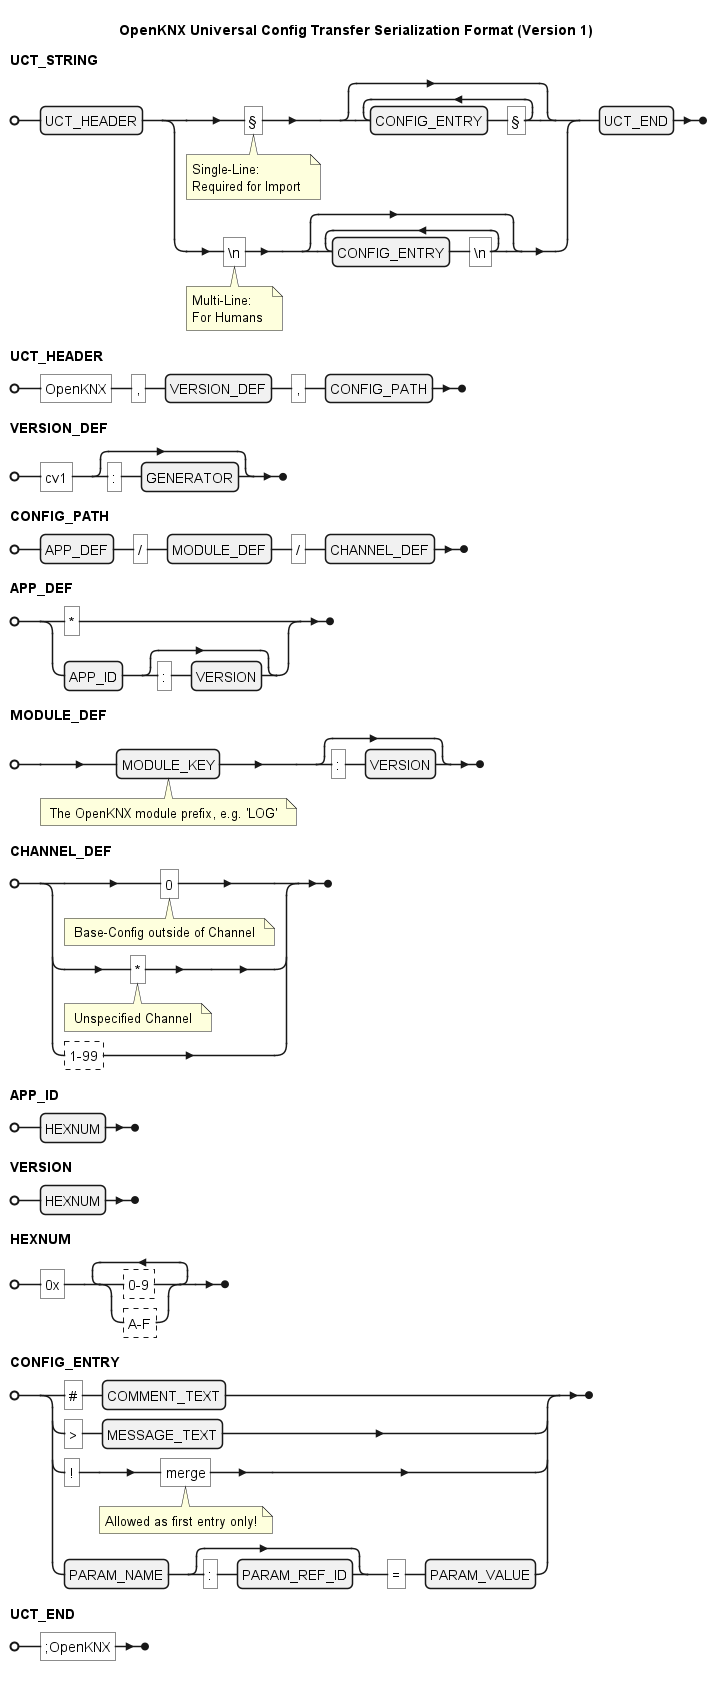
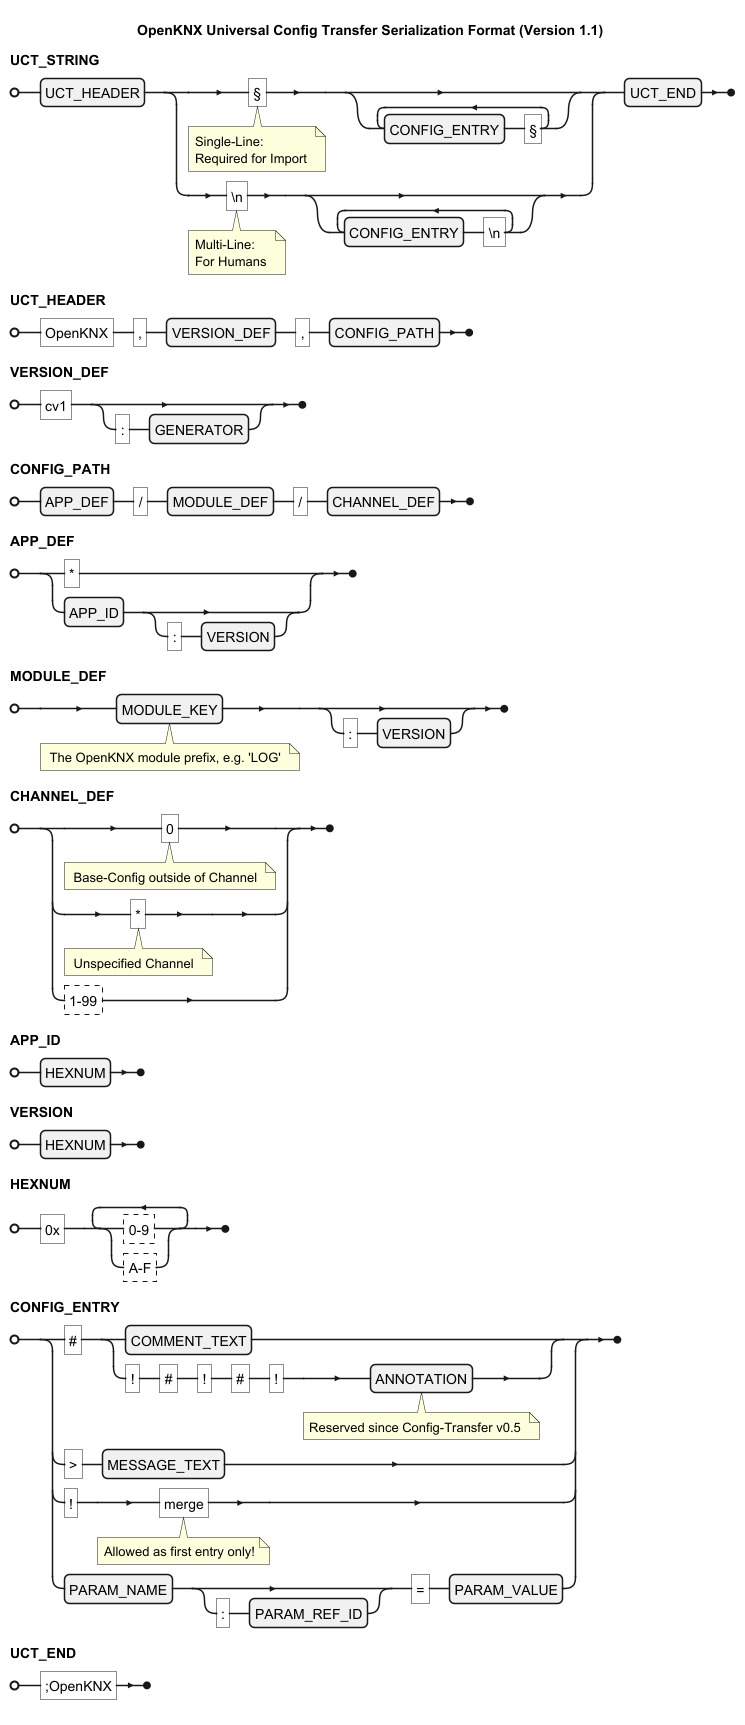
Release v0.5.0: Update Readme, Changelog, Docs and Producer MinVersion

Changed region(s): [[0.0, 0.0, 0.8285, 0.987], [0.8285, 0.0308, 0.9512, 0.0925]]

diff --git a/README.md b/README.md
@@ -29,6 +29,8 @@ Von Cornelius Köpp 2024-2026
   * [Kanaltausch](#kanaltausch)
   * [Standardwerte](#standardwerte)
 * [Geprüfte OpenKNX-Module](#geprüfte-openknx-module)
+  * [LogikModul](#logikmodul)
+    * [Patch für Parameteränderung mit LogikModul Version 4.0](#patch-für-parameteränderung-mit-logikmodul-version-40)
 * [OpenKNX-Applikation mit integriertem Konfigurationstransfer](#openknx-applikation-mit-integriertem-konfigurationstransfer)
 * [Integration in ETS-Applikation](#integration-in-ets-applikation)
   * [Voraussetzungen](#voraussetzungen)
@@ -212,6 +214,19 @@ im Fall von behebbaren Auffälligkeiten wird ggf. eine Korrektur des Moduls eing
 | OFM-Meter          | 0.2                      | OK     |                                                                                                                                                                                                                                                                                                                                                                                                                                                          | ?             |
 | SOM-UP             | 1.0                      | OK     |                                                                                                                                                                                                                                                                                                                                                                                                                                                          | ?             |
 
+### LogikModul
+
+#### Patch für Parameteränderung mit LogikModul Version 4.0
+
+Mit der LogikModul Version 4.0 werden LED und Buzzer-Funktionen in separate Module ausgelagert und Probleme im Zusammenhang mit der Hardwarekonfiguration beseitigt.
+In diesem Zusammenhang erfolgt auch eine Änderung der Parameter-Struktur für Konfiguration der Ausgangswerte.
+Angesichts der Integration des LogikModuls in nahezu alle OpenKNX-Applikationen wurde in den Konfigurationstransfer 
+ab Version 0.5 eine Patch-Funktion integriert, die Probleme beim Übertragen zwischen älteren (vor 4.0) und neueren (ab 4.0) Versionen des Logikmoduls reduziert.
+
+Hintergründe siehe [Besonderheiten ab der Version 4.0 bezüglich Update und Konfigurationstransfer](https://github.com/OpenKNX/OFM-LogicModule/blob/v1/doc/Applikationsbeschreibung-Logik.md#besonderheiten-ab-der-version-40-bez%C3%BCglich-update-und-konfigurationstransfer)
+
+
+Der Konfigurationstransfer enthält ab v0.5 eine Anpassung die den Austausch von Logiken vor und ab Version 4.0 zu ermöglichen.
 
 
 ## OpenKNX-Applikation mit integriertem Konfigurationstransfer
@@ -245,11 +260,15 @@ An der Firmware ist zum aktuellen Zeitpunkt keine Anpassung erforderlich; dies k
 
 ### Voraussetzungen
 
-* Der [OpenKNXProducer](https://github.com/OpenKNX/OpenKNXproducer) wird in einer Version ab Release [3.8.0](https://github.com/OpenKNX/OpenKNXproducer/releases/tag/v3.8.0) benötigt um die Modulinformationen zur integrieren.
-  > **Achtung:** Ältere Versionen des Producers sorgen u.A. dafür, dass die erzeugte Applikation Parameter exportieren wird, 
-  > die nicht Teil des Exports sein sollten! 
-  > Bei diesen Parametern handelt es sich um solche, die nicht direkt durch den Nutzer verändert werden können.
-  > Es erfolgt *keine* Warnung oder Hinweis beim Einsatz einer veralteten Producer-Version! 
+* Der [OpenKNXProducer](https://github.com/OpenKNX/OpenKNXproducer) wird in einer Version ab Release [4.0.1](https://github.com/OpenKNX/OpenKNXproducer/releases/tag/v4.0.1) benötigt um die Modulinformationen zur integrieren.
+  > **Achtung:** Es erfolgt technisch bedingt *keine* Warnung und kein Hinweis beim Einsatz einer veralteten Producer-Version (vor 4.0)!
+  > 
+  > Ältere Versionen des Producers sind u.A. nicht in der Lage die erforderliche Minimalversion anderer Module sicherzustellen,
+  > dies würde zu erheblichen Problemen bei Verwendung mit dem LogikModul führen!
+  > Ältere Versionen können auch Parameter einschließen, die nicht im Konfigurationstransfer verwendet werden dürfen.
+* Das [LogikModul](https://github.com/OpenKNX/OAM-LogicModule) muss auf Version 4.0 aktualisiert werden, falls gemeinsam verwendet.
+  Bei älteren Versionen kann durch den Migrations-Patch für dieses Modul ein Verlust der Ausgangskonfiguration beim Import auftreten.
+  Der OpenKNXProducer ab Version 4.0 wird eine gemeinsame Nutzung mit einem veralteten LogikModul verhindern 
 
 
 ### ApplikationName.xml

diff --git a/CHANGELOG.md b/CHANGELOG.md
@@ -1,11 +1,17 @@
-# (upcoming) 0.5.0 LOG-Patches
+# 0.5.0 "LOG-Patches" (2026-02-24)
+
+* **Wichtig:** Der [OpenKNXProducer](https://github.com/OpenKNX/OpenKNXproducer) muss auf Version [4.0.1](https://github.com/OpenKNX/OpenKNXproducer/releases/tag/v4.0.1) aktualisiert werden!
+  > ***Achtung:*** Es erfolgt keine Warnung oder Hinweis beim Einsatz einer veralteten Producer-Version!
+
 
 * Fix: Patch zur Parameter-Umstellung im Logikmodul 4.0
   * Verhindert Fehlermeldungen beim ansonsten funktionierenden Import aus älteren Versionen
-  * Verhindert Fehler Konfigurationsverlust der bei den häufigsten Hardware-Konfigurationen eintreten würde
+  * Verhindert stillen Konfigurationsverlust beim Import in ältere Versionen des LogikModuls (der bei den häufigsten Hardware-Konfigurationen eintreten würde)
 * Import:
-  * Anpassung von Parameter-Fehlermeldungen
   * Hinweise bei Versionsänderungen
+  * Zusätzlicher Hinweis bei Fehlern/Warnungen, falls eine Änderung der Modulversion erfolgt 
+  * Anpassung von Parameter-Fehlermeldungen
+* Dokumentation: Update/Erweiterung
 
 
 # 0.4.0 (2025-07-03)
